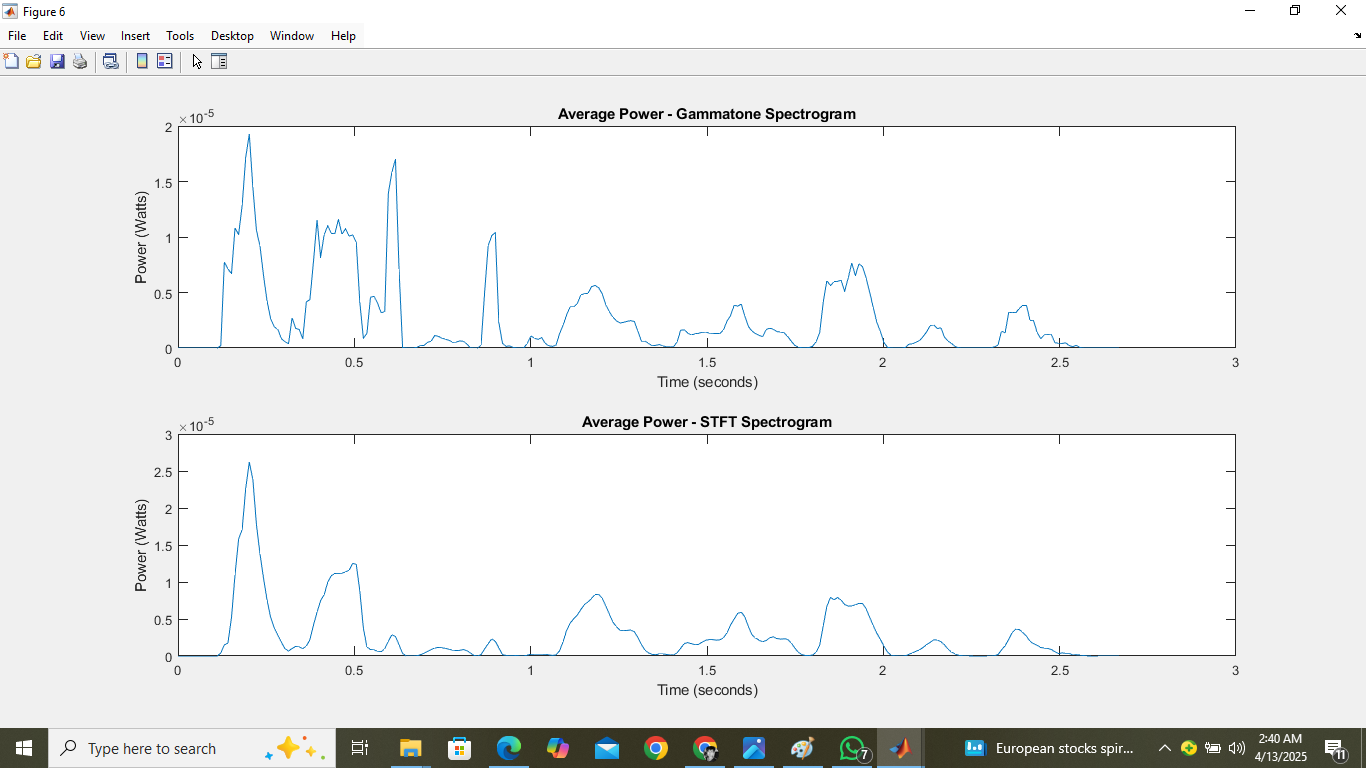
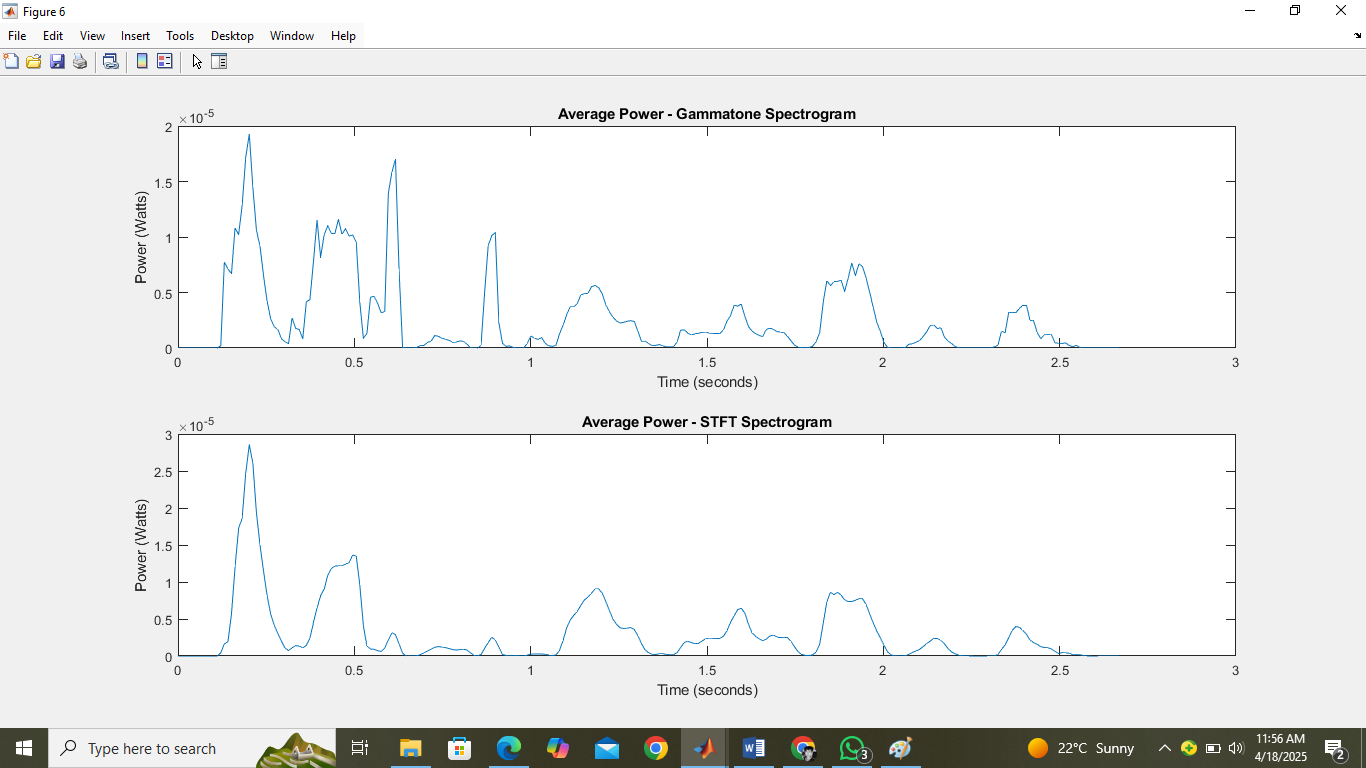
second edit

diff --git a/Grammatonegram/demo_gammatone.m b/Grammatonegram/demo_gammatone.m
@@ -87,10 +87,10 @@ title('Gammatonegram - fast method')
 % Since it's the last argument, we have to include all the other
 % arguments.  These are the default values for: summation window 
 % (0.025 sec), hop between successive windows (0.010 sec), 
-% number of gammatone channels (64), lowest frequency (50 Hz), 
+% number of gammatone channels (64 to 106), lowest frequency (50 to 140 Hz), 
 % and highest frequency (sr/2).  The last argument as zero 
 % means not to use the FFT approach.
-tic; [D2,F2] = gammatonegram(d,sr,0.025,0.010,106,50,sr/2,0); toc        % TASK 2
+tic; [D2,F2] = gammatonegram(d,sr,0.025,0.010,106,140,sr/2,0); toc        % TASK 2
 %Elapsed time is 3.165083 seconds.
 subplot(211)                                                             % TASK 1 and TASK 3
 imagesc(20*log10(D2)); axis xy
@@ -118,13 +118,13 @@ title('Gammatonegram - accurate method')
 % Check the frequency responses to see that they match:
 % Put an impulse through the Slaney ERB filters, then take the 
 % frequency response of each impulse response.
-fcfs = flipud(MakeERBFilters(16000,106,50));                             % TASK 2
+fcfs = flipud(MakeERBFilters(16000,106,140));                             % TASK 2
 gtir = ERBFilterBank([1, zeros(1,1000)],fcfs);
 H = zeros(106,512);                                                      % TASK 2
 for i = 1:106; H(i,:) = abs(freqz(gtir(i,:),1,512)); end                 % TASK 2
 % The weighting matrix for the FFT is the frequency response 
 % of each output filter
-gtm = fft2gammatonemx(1024,16000,106,1,50,8000,512);                     % TASK 2
+gtm = fft2gammatonemx(1024,16000,106,1,140,8000,512);                     % TASK 2
 % Plot every 5th channel from both.  Offset by 3 dB just so we can
 % see both
 fs = [0:511]/512*8000;
